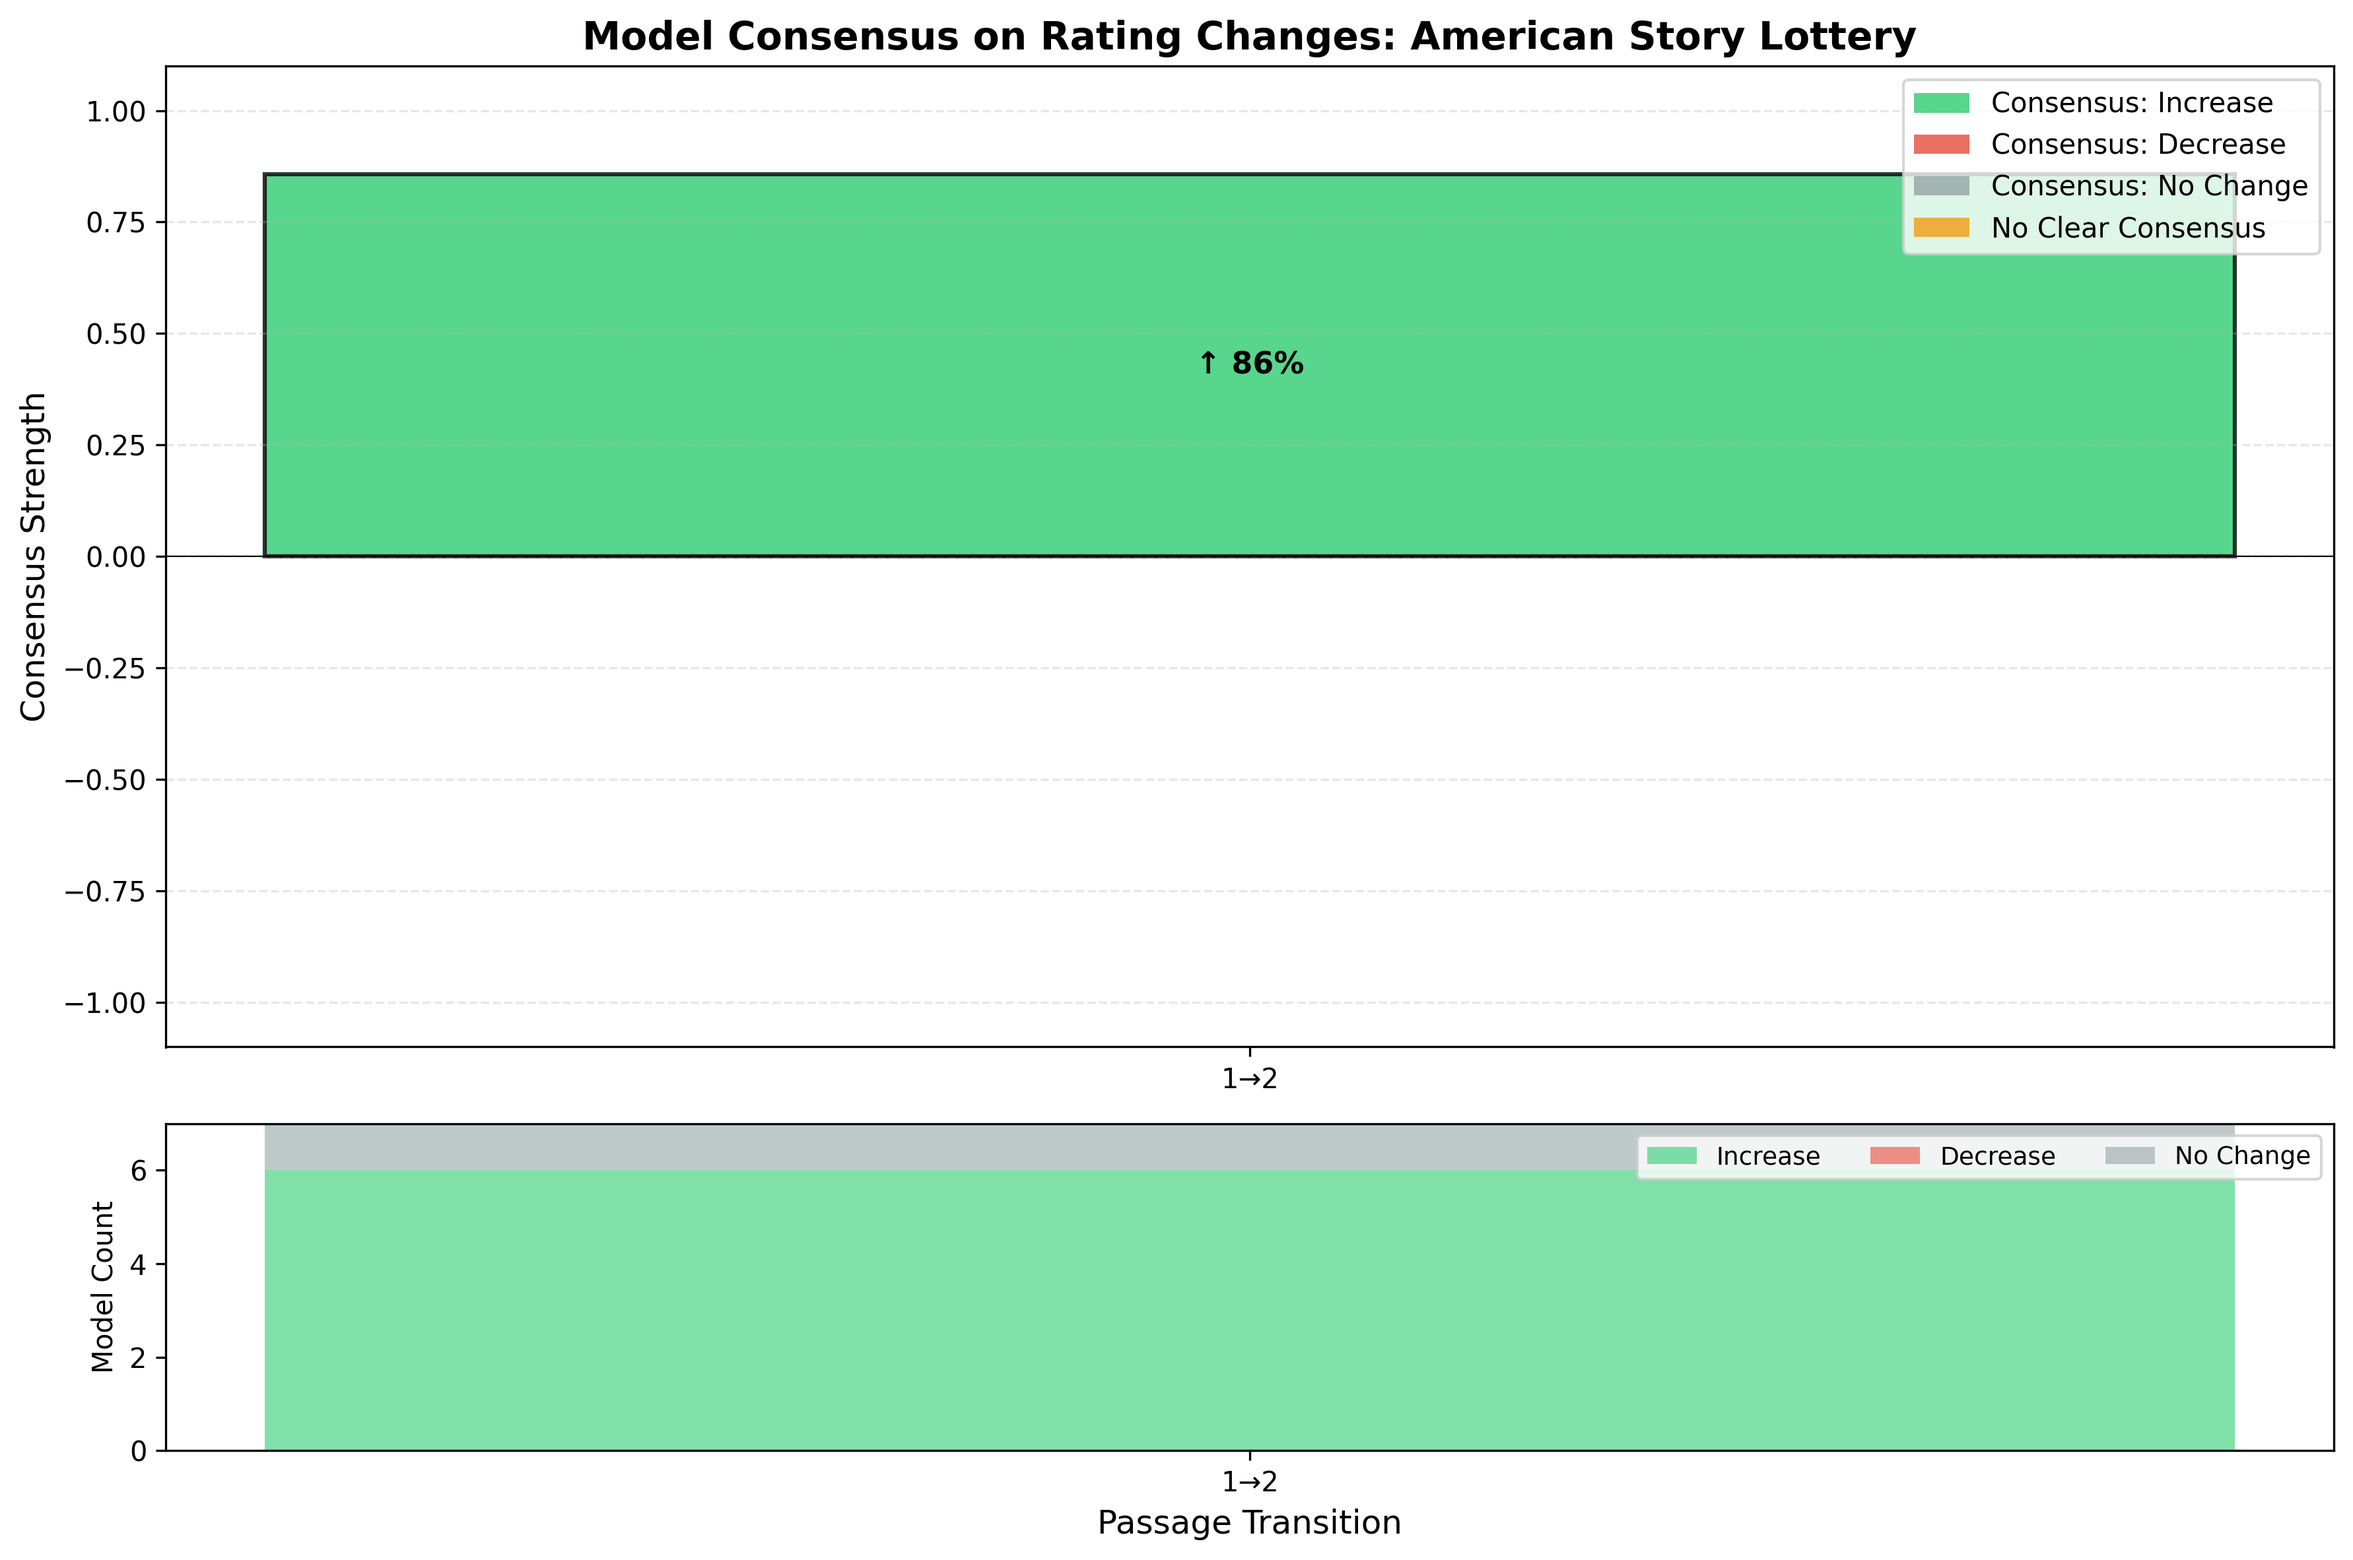
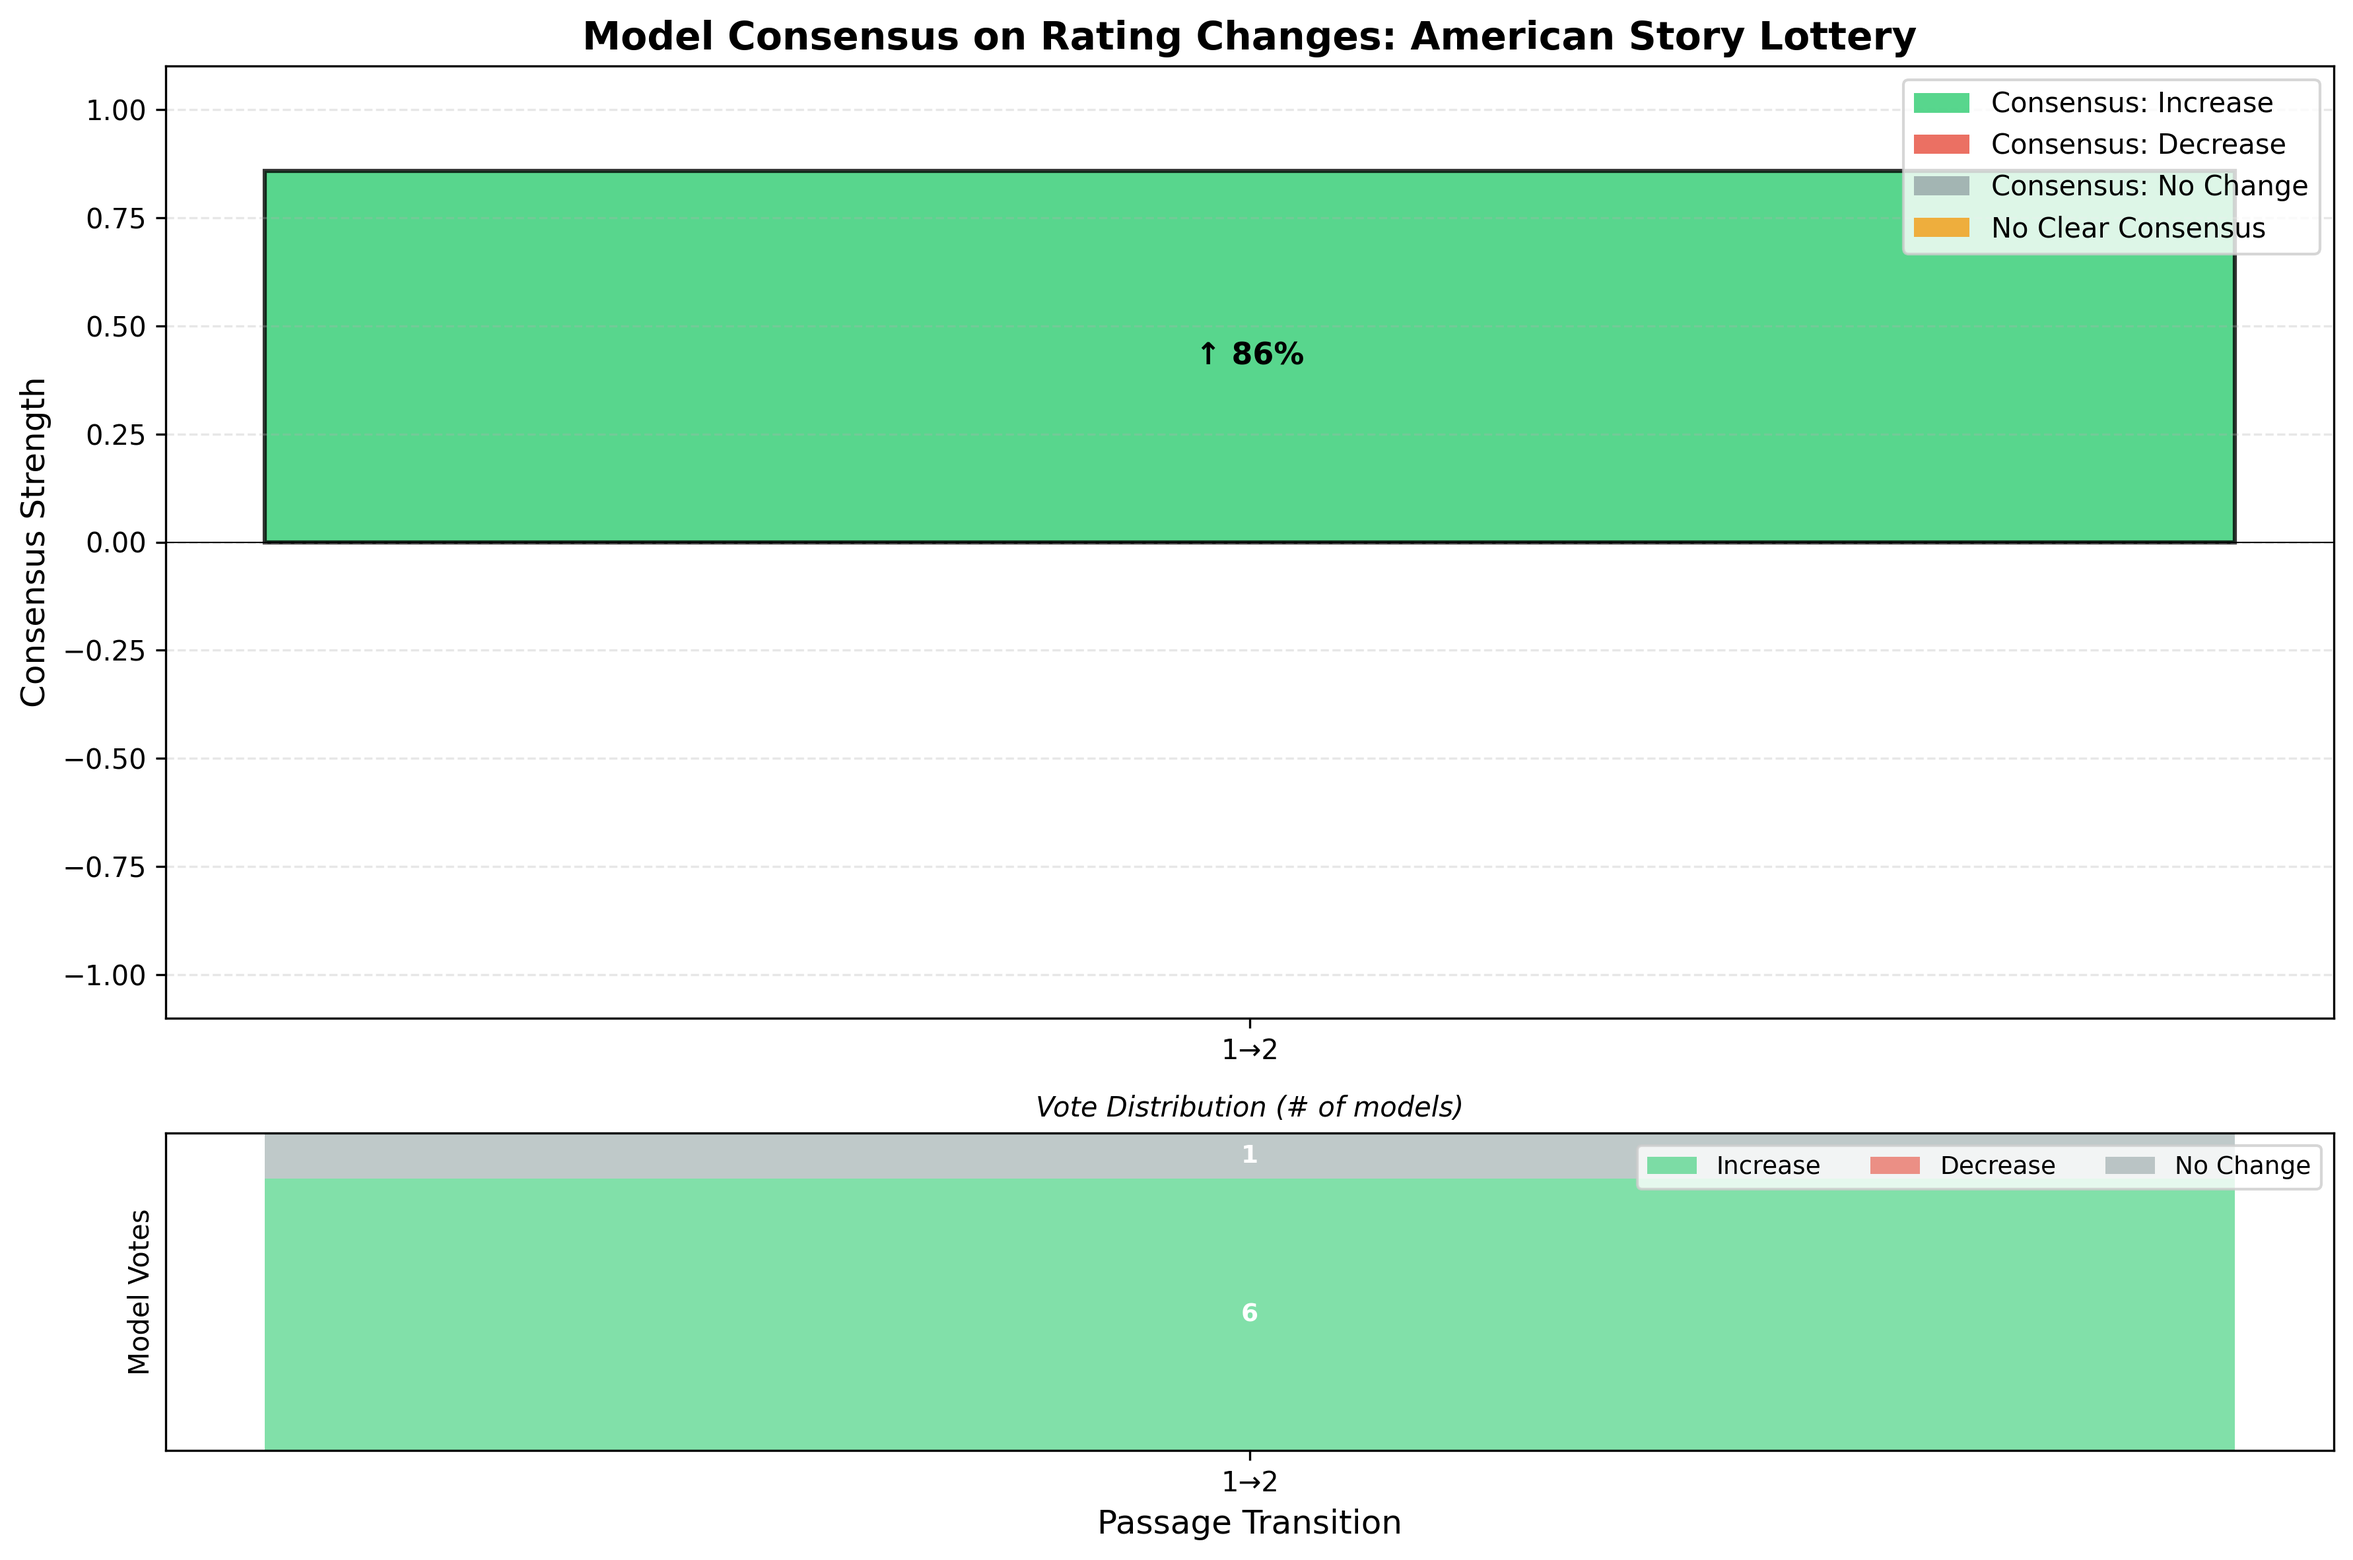
fix: Display all model count labels in consensus visualizations
- Remove label skipping logic - now displays numbers on ALL bars
- Adjust font sizes: 6pt for >40 transitions, 7pt for >20, 8pt otherwise
- Ensure every stacked bar segment shows its model count
- Improve readability with adaptive font sizing for dense visualizations
- Update both main consensus bars and vote distribution panels
- All 7 consensus plots regenerated with complete labeling

diff --git a/scripts/data_processing/lehne_delatorre_visualizations.py b/scripts/data_processing/lehne_delatorre_visualizations.py
@@ -399,17 +399,15 @@ def main():
     
     bars = ax1.bar(x_pos, heights, color=colors, alpha=0.8, edgecolor='black', linewidth=1.0)
     
-    # Add value labels on bars (skip some if too many)
-    label_freq = max(1, num_transitions // 20)  # Show labels less frequently if many transitions
+    # Add value labels on ALL bars - don't skip any
     for i, (bar, label) in enumerate(zip(bars, labels)):
-        if i % label_freq == 0 or num_transitions <= 20:
-            height = bar.get_height()
-            if height != 0:
-                ax1.text(bar.get_x() + bar.get_width()/2, height/2, label,
-                        ha='center', va='center', fontsize=9 if num_transitions > 20 else 11, fontweight='bold')
-            else:
-                ax1.text(bar.get_x() + bar.get_width()/2, 0.02, label,
-                        ha='center', va='bottom', fontsize=9 if num_transitions > 20 else 11, fontweight='bold')
+        height = bar.get_height()
+        if height != 0:
+            ax1.text(bar.get_x() + bar.get_width()/2, height/2, label,
+                    ha='center', va='center', fontsize=7 if num_transitions > 40 else (8 if num_transitions > 20 else 11), fontweight='bold')
+        else:
+            ax1.text(bar.get_x() + bar.get_width()/2, 0.02, label,
+                    ha='center', va='bottom', fontsize=7 if num_transitions > 40 else (8 if num_transitions > 20 else 11), fontweight='bold')
     
     ax1.set_ylim(-1.1, 1.1)
     ax1.axhline(y=0, color='black', linestyle='-', linewidth=0.5)
@@ -433,18 +431,49 @@ def main():
     # Bottom panel: Model vote distribution
     vote_data = np.array([[d['Models_Up'], d['Models_Down'], d['Models_Same']] for d in consensus_data]).T
     
-    # Stack plot for vote distribution
-    ax2.bar(x_pos, vote_data[0], color='#2ecc71', alpha=0.6, label='Increase')
-    ax2.bar(x_pos, vote_data[1], bottom=vote_data[0], color='#e74c3c', alpha=0.6, label='Decrease')
-    ax2.bar(x_pos, vote_data[2], bottom=vote_data[0]+vote_data[1], color='#95a5a6', alpha=0.6, label='No Change')
+    # Stack plot for vote distribution with count labels
+    bars1 = ax2.bar(x_pos, vote_data[0], color='#2ecc71', alpha=0.6, label='Increase')
+    bars2 = ax2.bar(x_pos, vote_data[1], bottom=vote_data[0], color='#e74c3c', alpha=0.6, label='Decrease')
+    bars3 = ax2.bar(x_pos, vote_data[2], bottom=vote_data[0]+vote_data[1], color='#95a5a6', alpha=0.6, label='No Change')
+    
+    # Add count labels on EVERY bar segment - don't skip any
+    for i, (b1, b2, b3) in enumerate(zip(bars1, bars2, bars3)):
+        # Label for "Increase" segment
+        if vote_data[0][i] > 0:
+            height1 = b1.get_height()
+            ax2.text(b1.get_x() + b1.get_width()/2, height1/2, 
+                    str(int(vote_data[0][i])),
+                    ha='center', va='center', fontsize=6 if num_transitions > 40 else (7 if num_transitions > 20 else 8), 
+                    fontweight='bold', color='white')
+        
+        # Label for "Decrease" segment
+        if vote_data[1][i] > 0:
+            height2 = b2.get_height()
+            y_pos2 = vote_data[0][i] + height2/2
+            ax2.text(b2.get_x() + b2.get_width()/2, y_pos2,
+                    str(int(vote_data[1][i])),
+                    ha='center', va='center', fontsize=6 if num_transitions > 40 else (7 if num_transitions > 20 else 8),
+                    fontweight='bold', color='white')
+        
+        # Label for "No Change" segment
+        if vote_data[2][i] > 0:
+            height3 = b3.get_height()
+            y_pos3 = vote_data[0][i] + vote_data[1][i] + height3/2
+            ax2.text(b3.get_x() + b3.get_width()/2, y_pos3,
+                    str(int(vote_data[2][i])),
+                    ha='center', va='center', fontsize=6 if num_transitions > 40 else (7 if num_transitions > 20 else 8),
+                    fontweight='bold', color='white')
     
     ax2.set_xticks(x_pos[::max(1, num_transitions // 30)])
     ax2.set_xticklabels([transitions[i] for i in range(0, len(transitions), max(1, num_transitions // 30))],
                         rotation=45 if num_transitions > 15 else 0, ha='right')
-    ax2.set_ylabel('Model Count', fontsize=10)
+    ax2.set_ylabel('Model Votes', fontsize=10)
     ax2.set_xlabel('Passage Transition', fontsize=12)
+    ax2.set_title('Vote Distribution (# of models per direction)', fontsize=10, style='italic')
     ax2.legend(loc='upper right', fontsize=9, ncol=3)
     ax2.set_ylim(0, len(model_directions))
+    # Remove y-axis ticks for cleaner look since we have count labels
+    ax2.set_yticks([])
     
     plt.tight_layout()
     

diff --git a/scripts/data_processing/brewer_visualizations.py b/scripts/data_processing/brewer_visualizations.py
@@ -367,17 +367,44 @@ def main():
         # Bottom panel: Model vote distribution
         vote_data = np.array([[d['Models_Up'], d['Models_Down'], d['Models_Same']] for d in consensus_data]).T
         
-        # Stack plot for vote distribution
-        ax2.bar(x_pos, vote_data[0], color='#2ecc71', alpha=0.6, label='Increase')
-        ax2.bar(x_pos, vote_data[1], bottom=vote_data[0], color='#e74c3c', alpha=0.6, label='Decrease')
-        ax2.bar(x_pos, vote_data[2], bottom=vote_data[0]+vote_data[1], color='#95a5a6', alpha=0.6, label='No Change')
+        # Stack plot for vote distribution with count labels
+        bars1 = ax2.bar(x_pos, vote_data[0], color='#2ecc71', alpha=0.6, label='Increase')
+        bars2 = ax2.bar(x_pos, vote_data[1], bottom=vote_data[0], color='#e74c3c', alpha=0.6, label='Decrease')
+        bars3 = ax2.bar(x_pos, vote_data[2], bottom=vote_data[0]+vote_data[1], color='#95a5a6', alpha=0.6, label='No Change')
+        
+        # Add count labels on each bar segment
+        for i, (b1, b2, b3) in enumerate(zip(bars1, bars2, bars3)):
+            # Label for "Increase" segment
+            if vote_data[0][i] > 0:
+                height1 = b1.get_height()
+                ax2.text(b1.get_x() + b1.get_width()/2, height1/2, 
+                        str(int(vote_data[0][i])),
+                        ha='center', va='center', fontsize=9, fontweight='bold', color='white')
+            
+            # Label for "Decrease" segment
+            if vote_data[1][i] > 0:
+                height2 = b2.get_height()
+                y_pos2 = vote_data[0][i] + height2/2
+                ax2.text(b2.get_x() + b2.get_width()/2, y_pos2,
+                        str(int(vote_data[1][i])),
+                        ha='center', va='center', fontsize=9, fontweight='bold', color='white')
+            
+            # Label for "No Change" segment
+            if vote_data[2][i] > 0:
+                height3 = b3.get_height()
+                y_pos3 = vote_data[0][i] + vote_data[1][i] + height3/2
+                ax2.text(b3.get_x() + b3.get_width()/2, y_pos3,
+                        str(int(vote_data[2][i])),
+                        ha='center', va='center', fontsize=9, fontweight='bold', color='white')
         
         ax2.set_xticks(x_pos)
         ax2.set_xticklabels(transitions)
-        ax2.set_ylabel('Model Count', fontsize=10)
+        ax2.set_ylabel('Model Votes', fontsize=10)
         ax2.set_xlabel('Passage Transition', fontsize=12)
+        ax2.set_title('Vote Distribution (# of models)', fontsize=10, style='italic')
         ax2.legend(loc='upper right', fontsize=9, ncol=3)
         ax2.set_ylim(0, len(model_directions))
+        ax2.set_yticks([])  # Remove y-axis ticks since we have labels
         
         plt.tight_layout()
         
